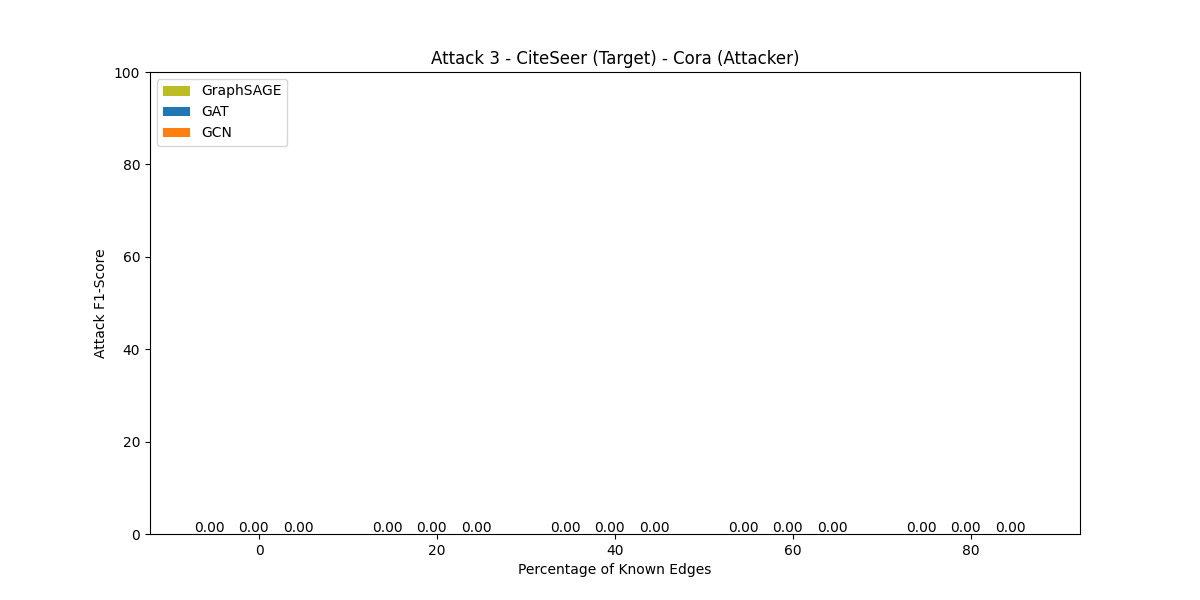
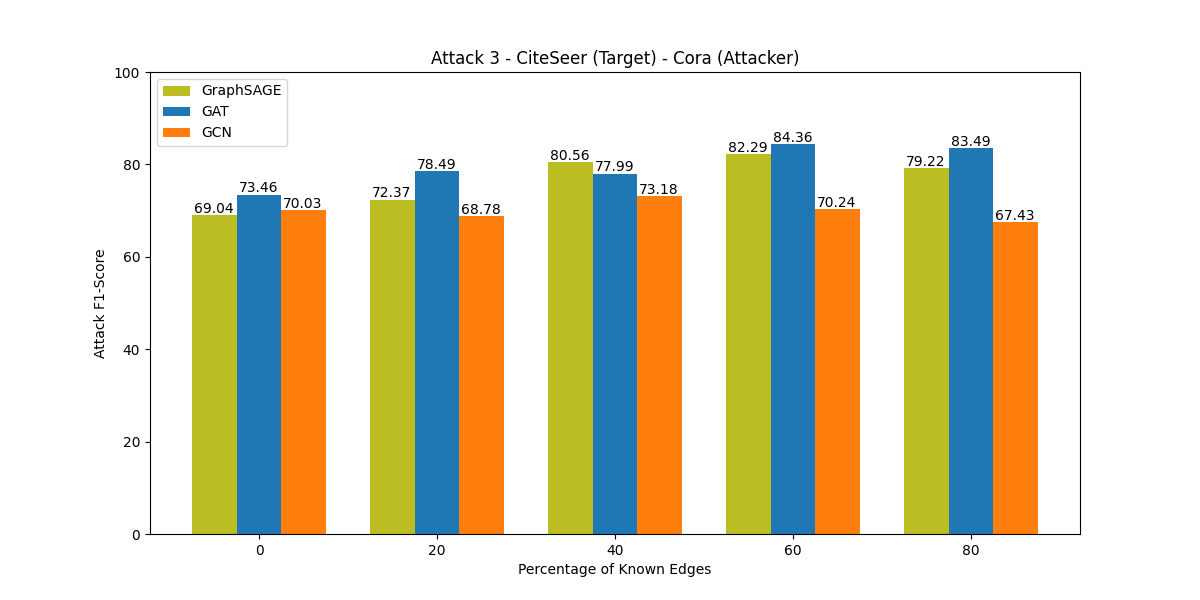
diff dataset

diff --git a/Experiment/results/plot.py b/Experiment/results/plot.py
@@ -36,7 +36,6 @@ def a1_cora():
     plt.ylim([0, 100])
     plt.legend(loc = 'upper left')
     plt.savefig('attack-1-cora.png')
-
 def a1_citeseer():
 
     plt.figure(figsize=(12,6))
@@ -71,7 +70,6 @@ def a1_citeseer():
     plt.ylim([0, 100])
     plt.legend(loc = 'upper left')
     plt.savefig('attack-1-citeseer.png')
-
 def a1_pubmed():
 
     plt.figure(figsize=(12,6))
@@ -107,9 +105,9 @@ def a1_pubmed():
     plt.legend(loc = 'upper left')
     plt.savefig('attack-1-pubmed.png')
 
-a1_cora()
-a1_citeseer()
-a1_pubmed()
+# a1_cora()
+# a1_citeseer()
+# a1_pubmed()
 
 # ------------------------------------------------------------------------------
 
@@ -148,7 +146,6 @@ def a2_cora():
     plt.ylim([0, 100])
     plt.legend(loc = 'upper left')
     plt.savefig('attack-2-cora.png')
-
 def a2_citeseer():
 
     plt.figure(figsize=(12,6))
@@ -183,7 +180,6 @@ def a2_citeseer():
     plt.ylim([0, 100])
     plt.legend(loc = 'upper left')
     plt.savefig('attack-2-citeseer.png')
-
 def a2_pubmed():
 
     plt.figure(figsize=(12,6))
@@ -219,9 +215,9 @@ def a2_pubmed():
     plt.legend(loc = 'upper left')
     plt.savefig('attack-2-pubmed.png')
 
-a2_cora()
-a2_citeseer()
-a2_pubmed()
+# a2_cora()
+# a2_citeseer()
+# a2_pubmed()
 
 # ------------------------------------------------------------------------------
 
@@ -232,9 +228,9 @@ def a3_cora_citeseer():
 
     bartypes = ['0', '20', '40', '60', '80']
 
-    graphsage = [0, 0, 0, 0, 0]
-    gat = [0, 0, 0, 0, 0]
-    gcn = [0, 0, 0, 0, 0]
+    graphsage = [77.69, 82.58, 83.17, 86.67, 89.00]
+    gat = [76.89, 81.67, 80.57, 83.03, 83.99]
+    gcn = [74.49, 72.44, 76.10, 77.30, 77.80]
 
     X_axis = np.arange(len(bartypes))
 
@@ -260,16 +256,15 @@ def a3_cora_citeseer():
     plt.ylim([0, 100])
     plt.legend(loc = 'upper left')
     plt.savefig('attack-3-cora-citeseer.png')
-
 def a3_cora_pubmed():
 
     plt.figure(figsize=(12,6))
 
     bartypes = ['0', '20', '40', '60', '80']
 
-    graphsage = [0, 0, 0, 0, 0]
-    gat = [0, 0, 0, 0, 0]
-    gcn = [0, 0, 0, 0, 0]
+    graphsage = [76.00, 76.62, 80.48, 79.92, 83.39]
+    gat = [76.76, 76.02, 81.26, 81.59, 84.51]
+    gcn = [76.37, 78.13, 78.85, 80.03, 81.14]
 
     X_axis = np.arange(len(bartypes))
 
@@ -295,16 +290,15 @@ def a3_cora_pubmed():
     plt.ylim([0, 100])
     plt.legend(loc = 'upper left')
     plt.savefig('attack-3-cora-pubmed.png')
-
 def a3_citeseer_cora():
 
     plt.figure(figsize=(12,6))
 
     bartypes = ['0', '20', '40', '60', '80']
 
-    graphsage = [0, 0, 0, 0, 0]
-    gat = [0, 0, 0, 0, 0]
-    gcn = [0, 0, 0, 0, 0]
+    graphsage = [69.04, 72.37, 80.56, 82.29, 79.22]
+    gat = [73.46, 78.49, 77.99, 84.36, 83.49]
+    gcn = [70.03, 68.78, 73.18, 70.24, 67.43]
 
     X_axis = np.arange(len(bartypes))
 
@@ -330,16 +324,15 @@ def a3_citeseer_cora():
     plt.ylim([0, 100])
     plt.legend(loc = 'upper left')
     plt.savefig('attack-3-citeseer-cora.png')
-
 def a3_citeseer_pubmed():
 
     plt.figure(figsize=(12,6))
 
     bartypes = ['0', '20', '40', '60', '80']
 
-    graphsage = [0, 0, 0, 0, 0]
-    gat = [0, 0, 0, 0, 0]
-    gcn = [0, 0, 0, 0, 0]
+    graphsage = [75.90, 76.25, 79.37, 81.92, 81.48]
+    gat = [77.69, 79.59, 79.21, 80.80, 80.34]
+    gcn = [74.91, 77.10, 77.83, 80.32, 80.44]
 
     X_axis = np.arange(len(bartypes))
 
@@ -365,16 +358,15 @@ def a3_citeseer_pubmed():
     plt.ylim([0, 100])
     plt.legend(loc = 'upper left')
     plt.savefig('attack-3-citeseer-pubmed.png')
-
 def a3_pubmed_cora():
 
     plt.figure(figsize=(12,6))
 
     bartypes = ['0', '20', '40', '60', '80']
 
-    graphsage = [0, 0, 0, 0, 0]
-    gat = [0, 0, 0, 0, 0]
-    gcn = [0, 0, 0, 0, 0]
+    graphsage = [73.00, 71.44, 81.17, 81.41, 84.50]
+    gat = [71.43, 75.09, 81.00, 81.70, 81.87]
+    gcn = [69.79, 69.83, 71.02, 67.36, 75.05]
 
     X_axis = np.arange(len(bartypes))
 
@@ -407,9 +399,9 @@ def a3_pubmed_citeseer():
 
     bartypes = ['0', '20', '40', '60', '80']
 
-    graphsage = [0, 0, 0, 0, 0]
-    gat = [0, 0, 0, 0, 0]
-    gcn = [0, 0, 0, 0, 0]
+    graphsage = [79.76, 77.65, 84.24, 84.62, 82.63]
+    gat = [78.50, 80.05, 84.79, 83.29, 83.62]
+    gcn = [72.85, 71.84, 74.92, 77.73, 77.03]
 
     X_axis = np.arange(len(bartypes))
 
